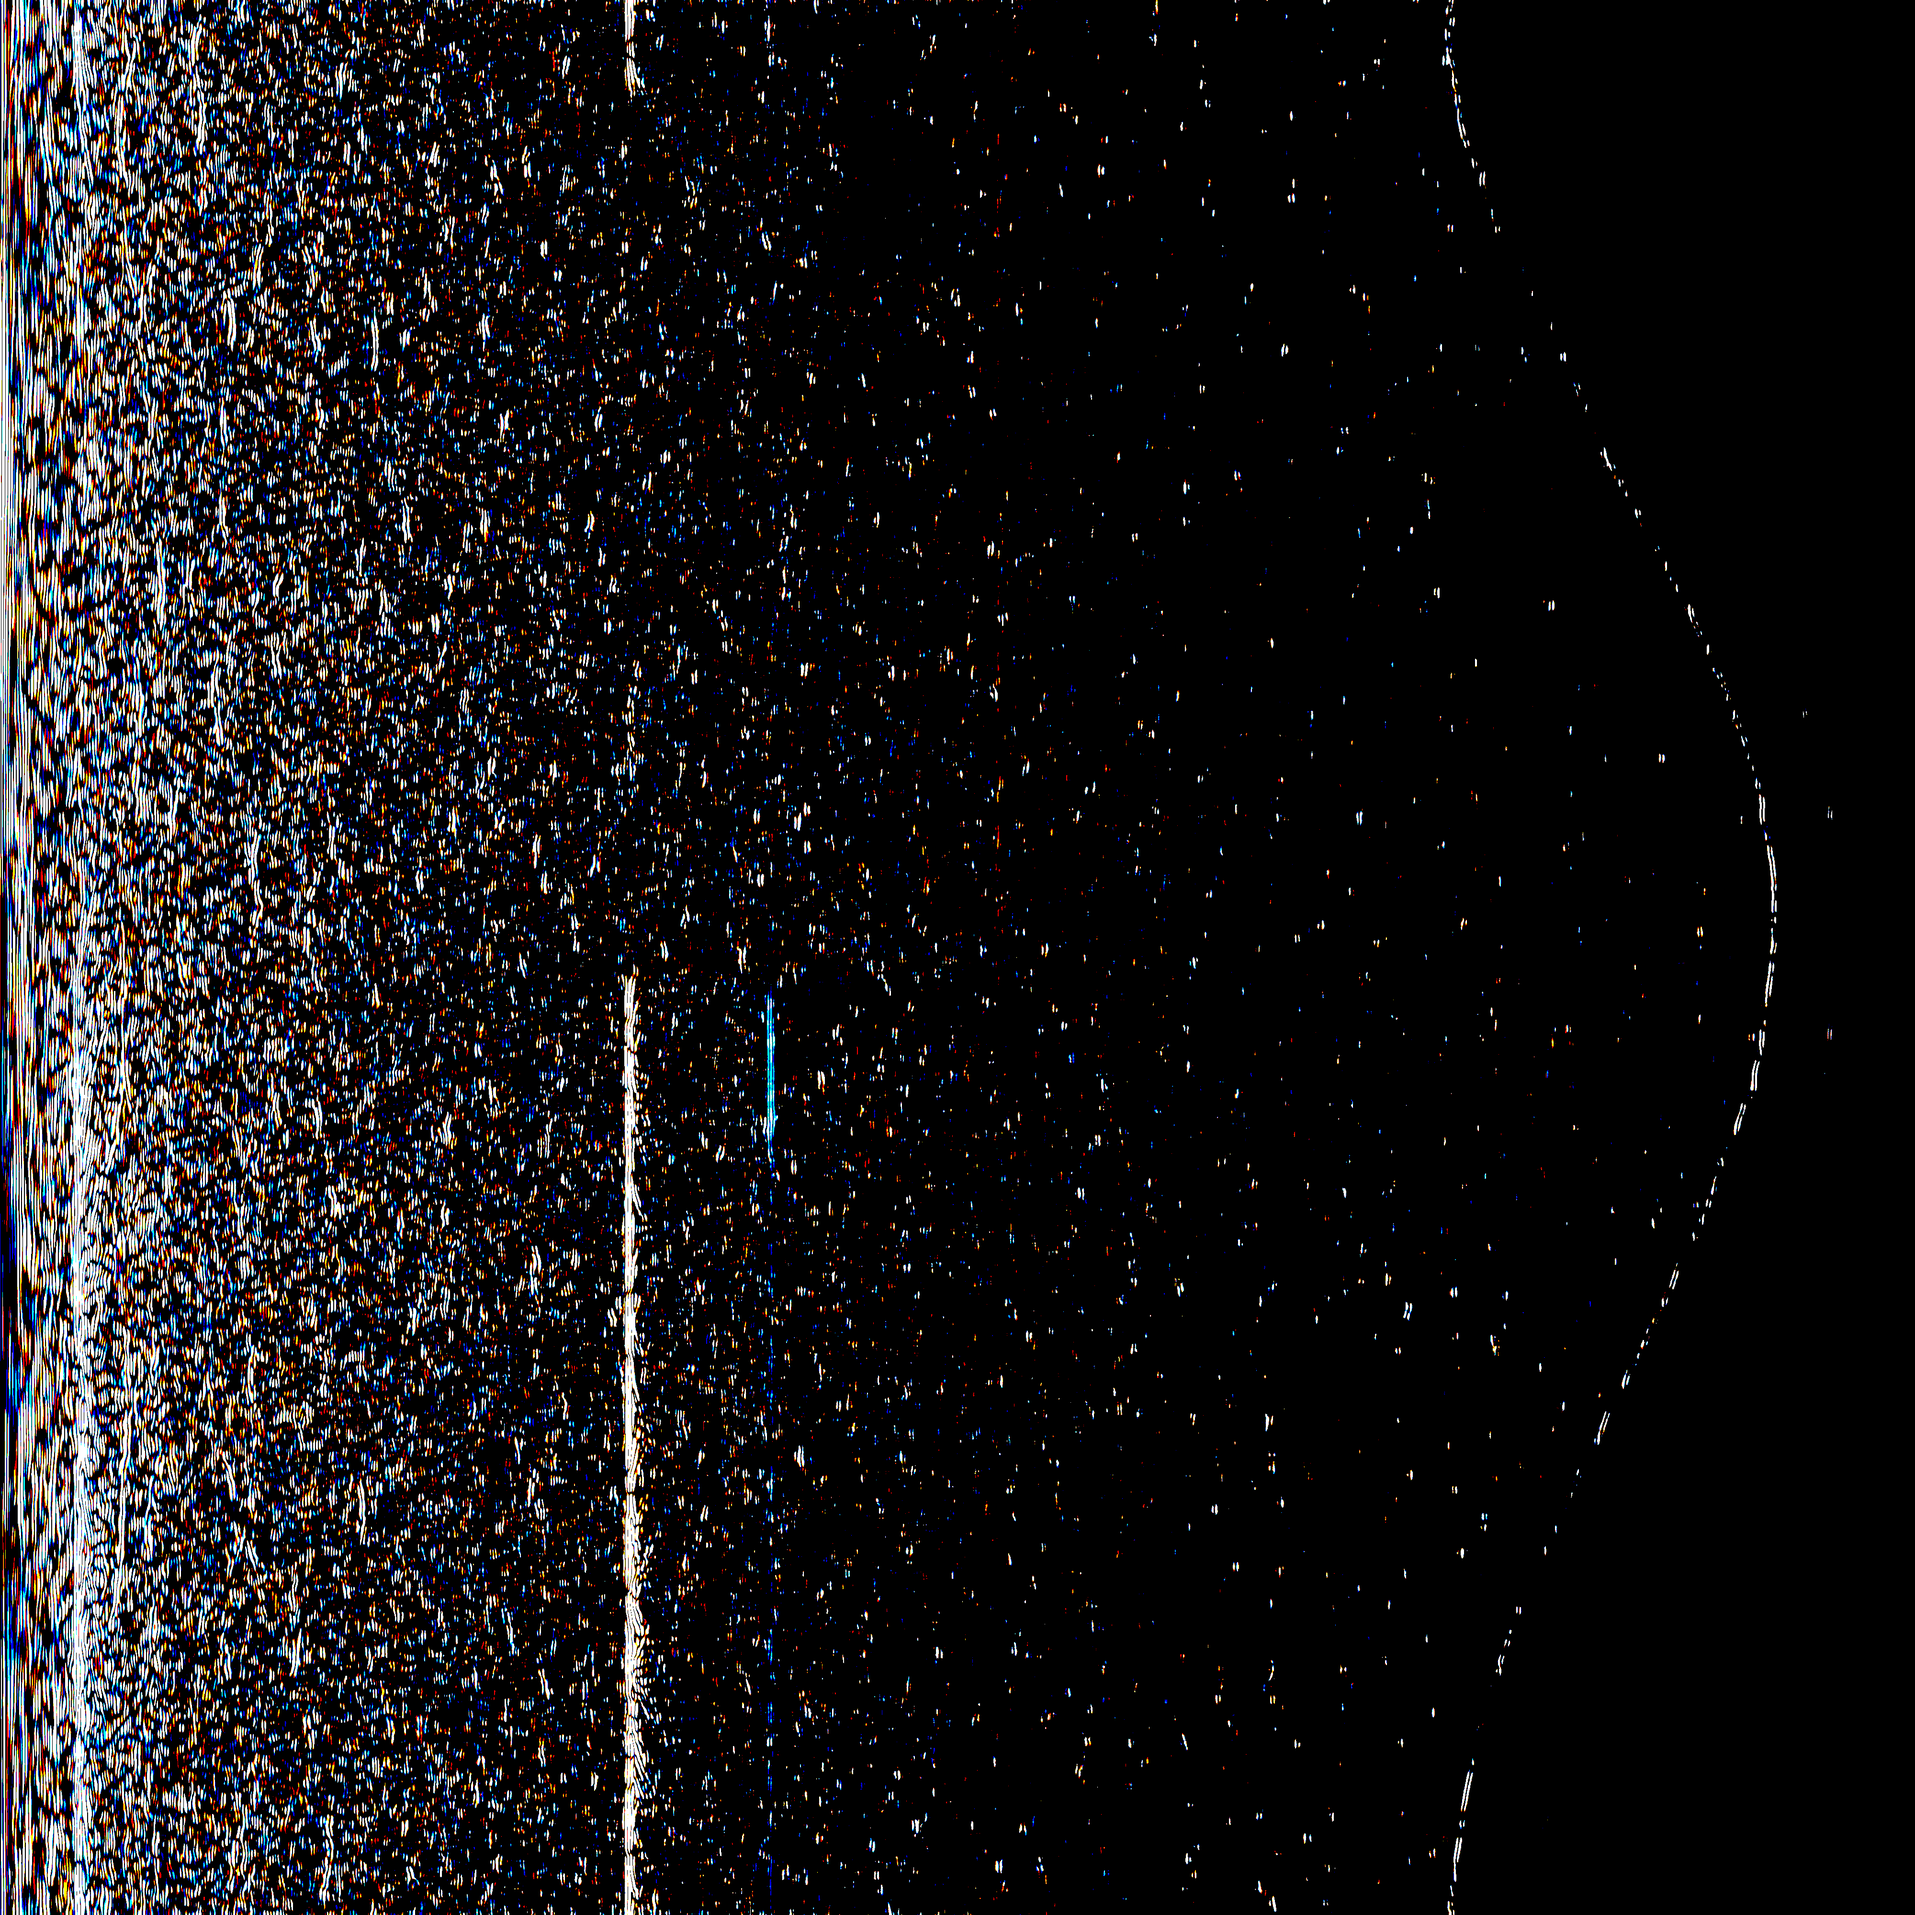
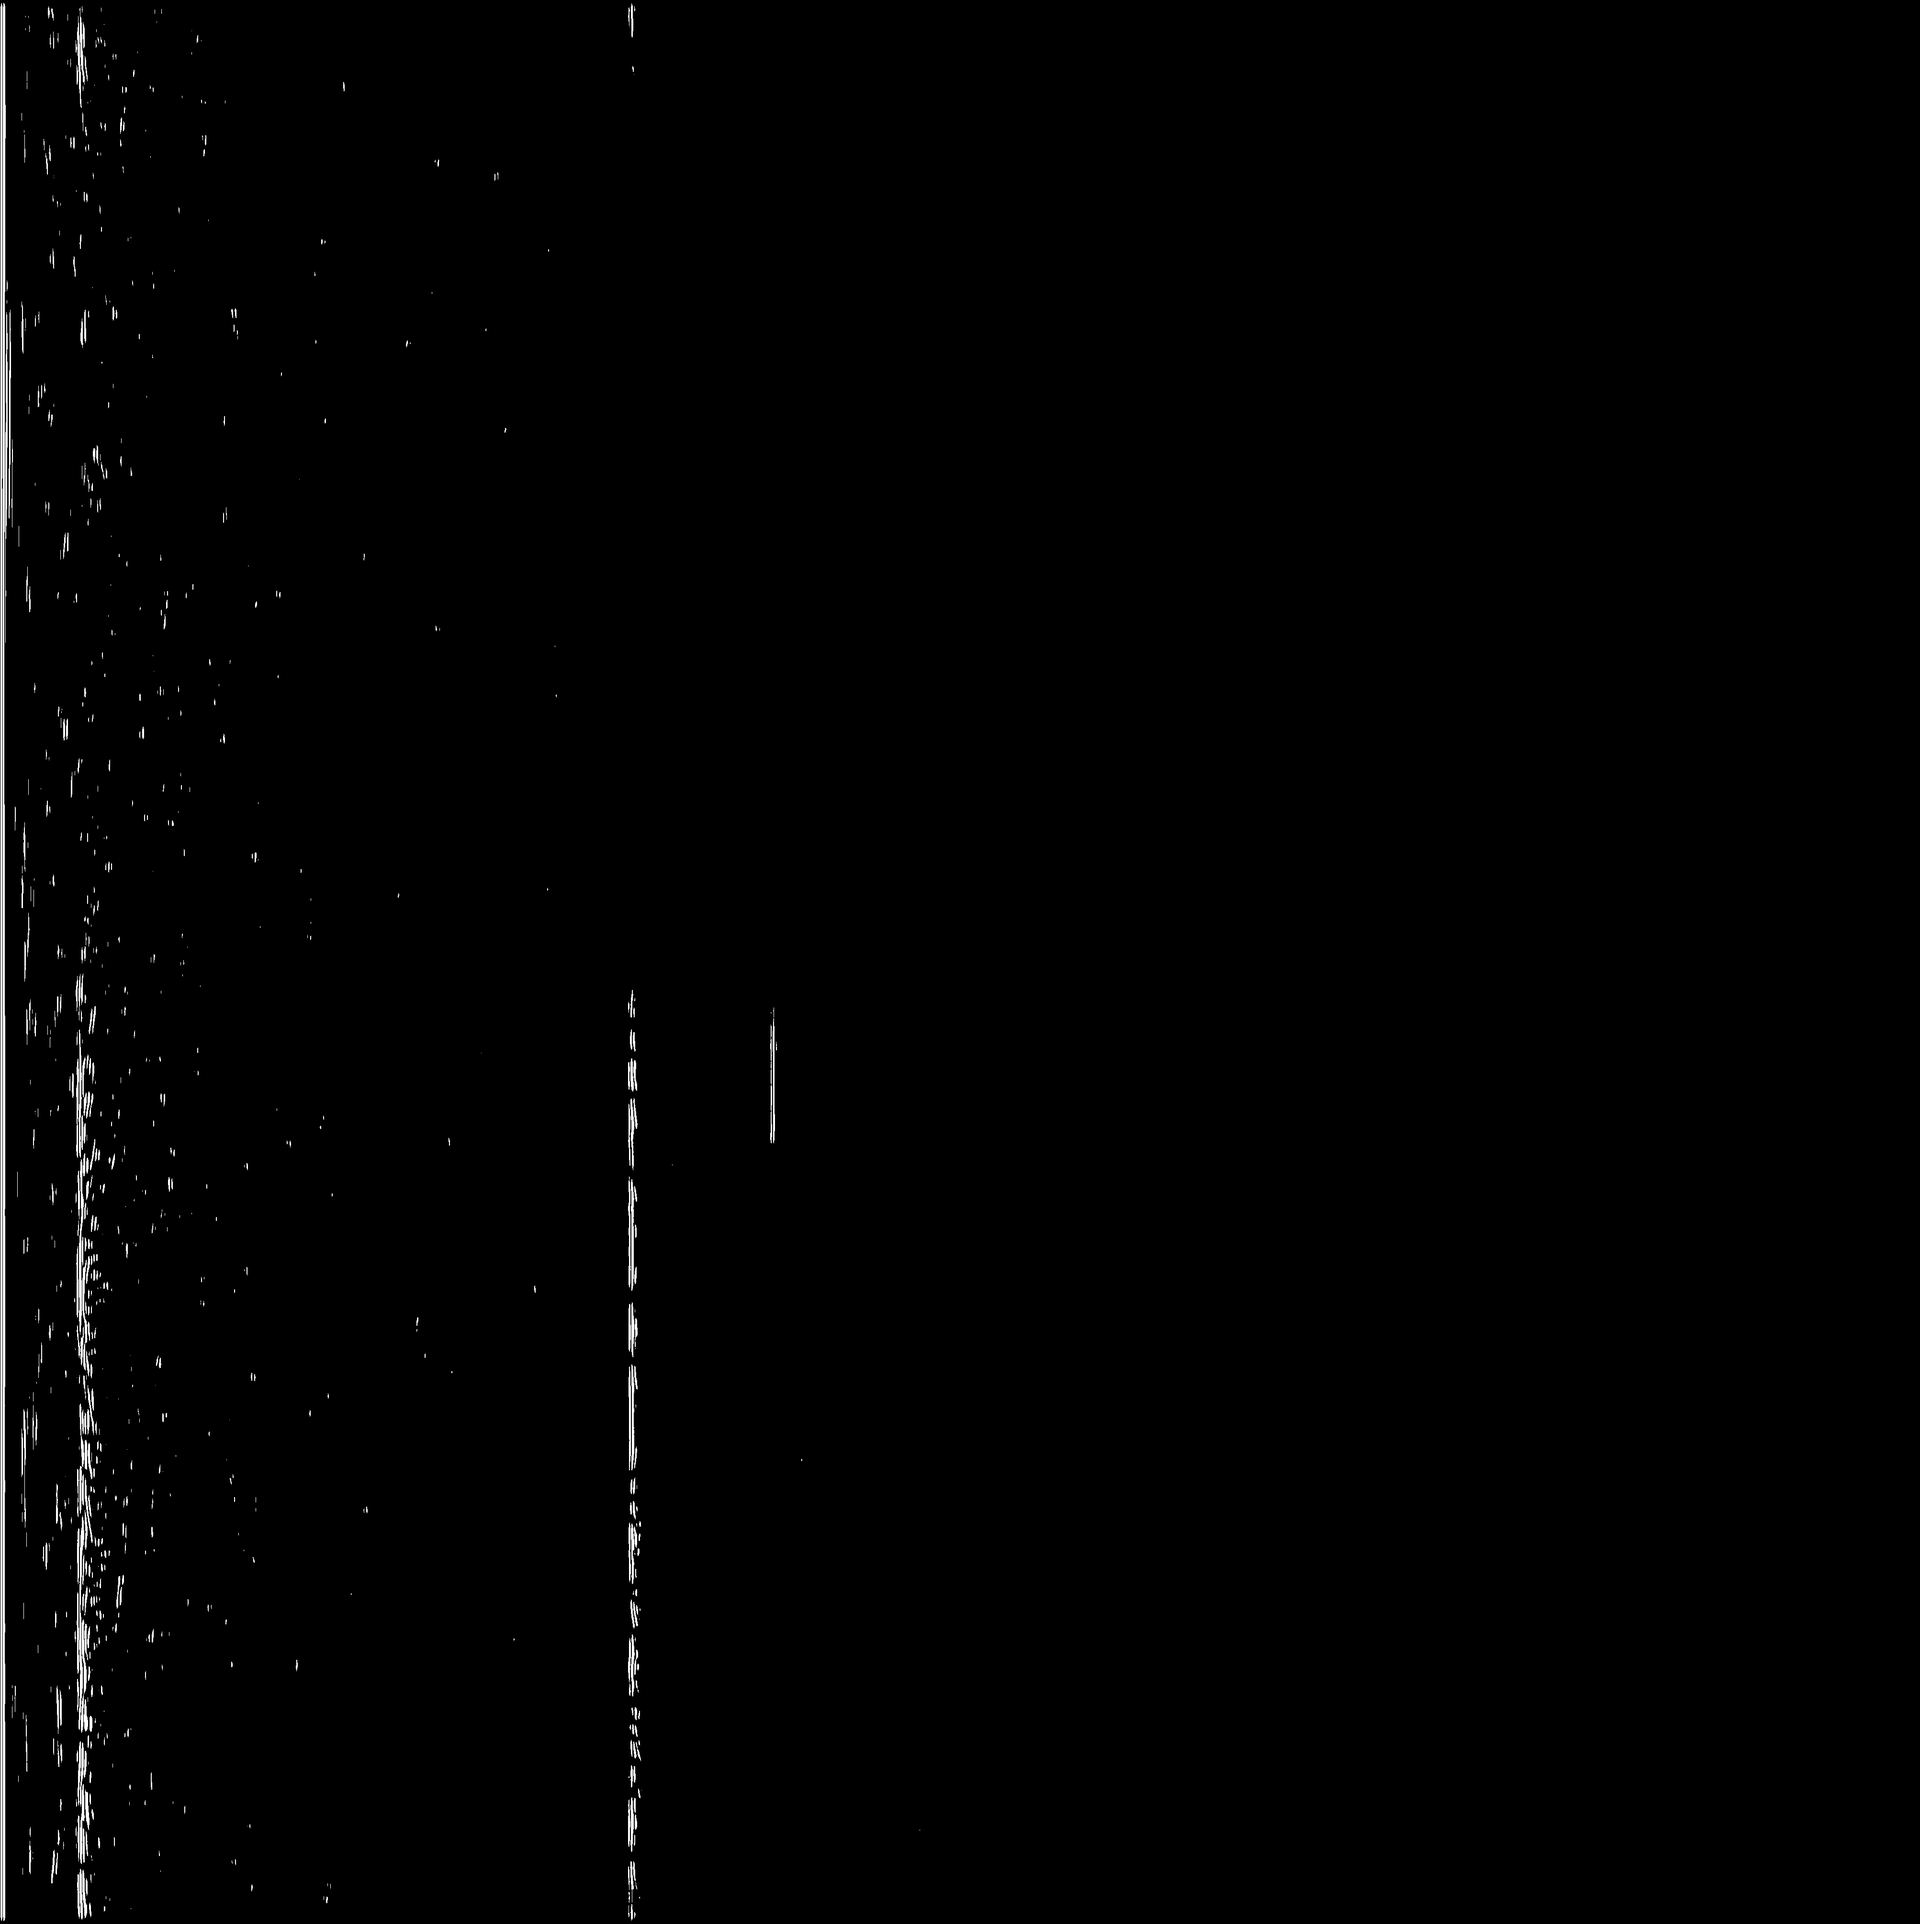
trying to use 3d convolution

diff --git a/PycharmProjects/disserProj/src/core/find_rings.py b/PycharmProjects/disserProj/src/core/find_rings.py
@@ -12,6 +12,8 @@ from metrics.metrics_wrappers import more_cool_metric
 from sklearn.metrics import jaccard_similarity_score
 import time
 
+from core.convolution3d import make2DconvolutionWith3Dfilter
+
 MARKING_COLOR = np.array([0, 0, 255])
 
 top = np.array(MARKING_COLOR)
@@ -141,6 +143,7 @@ def read_image_slices(input_folder, input_name, start_index=0, step=1):
         slice = None
         slices.append(polar)
 
+    #slices = np.asarray(slices)
     slices = np.dstack((slices[:]))
     print(slices.shape)
     #slices = np.stack(slices)
@@ -152,12 +155,13 @@ def read_image_slices(input_folder, input_name, start_index=0, step=1):
     #REALLY_BIG_KERNEL = np.repeat(CONV_KERNEL_BIG[None, :], slices_num, axis=0)
     #print(REALLY_BIG_KERNEL)
 
-
-
+    convolved_polar = make2DconvolutionWith3Dfilter(np.float32(slices), REALLY_BIG_KERNEL)
+    """
     print("#######")
     convolved_polar = signal.convolve(np.float32(slices), REALLY_BIG_KERNEL)
     #convolved_polar = ndimage.convolve(np.float32(slices), REALLY_BIG_KERNEL)
     print(convolved_polar.shape)
+    """
 
     print("#######")
     abs_polar = np.abs(convolved_polar)
@@ -166,7 +170,6 @@ def read_image_slices(input_folder, input_name, start_index=0, step=1):
     THRESH = 5000
     ret, bin_result = cv.threshold(abs_polar, THRESH, 255, cv.THRESH_BINARY)
     bin_result = np.uint8(bin_result)
-
     cv.imwrite("../../result.png", bin_result)
 
 

diff --git a/PycharmProjects/disserProj/src/core/convolution3d.py b/PycharmProjects/disserProj/src/core/convolution3d.py
@@ -1,0 +1,34 @@
+
+import tensorflow as tf
+import numpy as np
+
+def make2DconvolutionWith3Dfilter(images, filter):
+    sess = tf.Session()
+    #ones_3d = np.ones((5, 5, 5))
+    ones_3d = images
+    print('ones_3d = ', ones_3d)
+    #weight_3d = np.ones((3, 3, 3))
+    weight_3d = filter
+    print('weight_3d = ', weight_3d)
+    strides_3d = [1, 1, 1, 1, 1]
+
+    in_3d = tf.constant(ones_3d, dtype=tf.float32)
+    print('in_3d = \n', in_3d)
+    filter_3d = tf.constant(weight_3d, dtype=tf.float32)
+    print('filter_3d = \n', filter_3d)
+
+    in_width = int(in_3d.shape[0])
+    in_height = int(in_3d.shape[1])
+    in_depth = int(in_3d.shape[2])
+
+    filter_width = int(filter_3d.shape[0])
+    filter_height = int(filter_3d.shape[1])
+    filter_depth = int(filter_3d.shape[2])
+
+    input_3d = tf.reshape(in_3d, [1, in_depth, in_height, in_width, 1])
+    print('input_3d = \n', input_3d)
+    kernel_3d = tf.reshape(filter_3d, [filter_depth, filter_height, filter_width, 1, 1])
+    print('kernel_3d = \n', kernel_3d)
+
+    output_3d = tf.squeeze(tf.nn.conv3d(input_3d, kernel_3d, strides=strides_3d, padding='SAME'))
+    return sess.run(output_3d)
